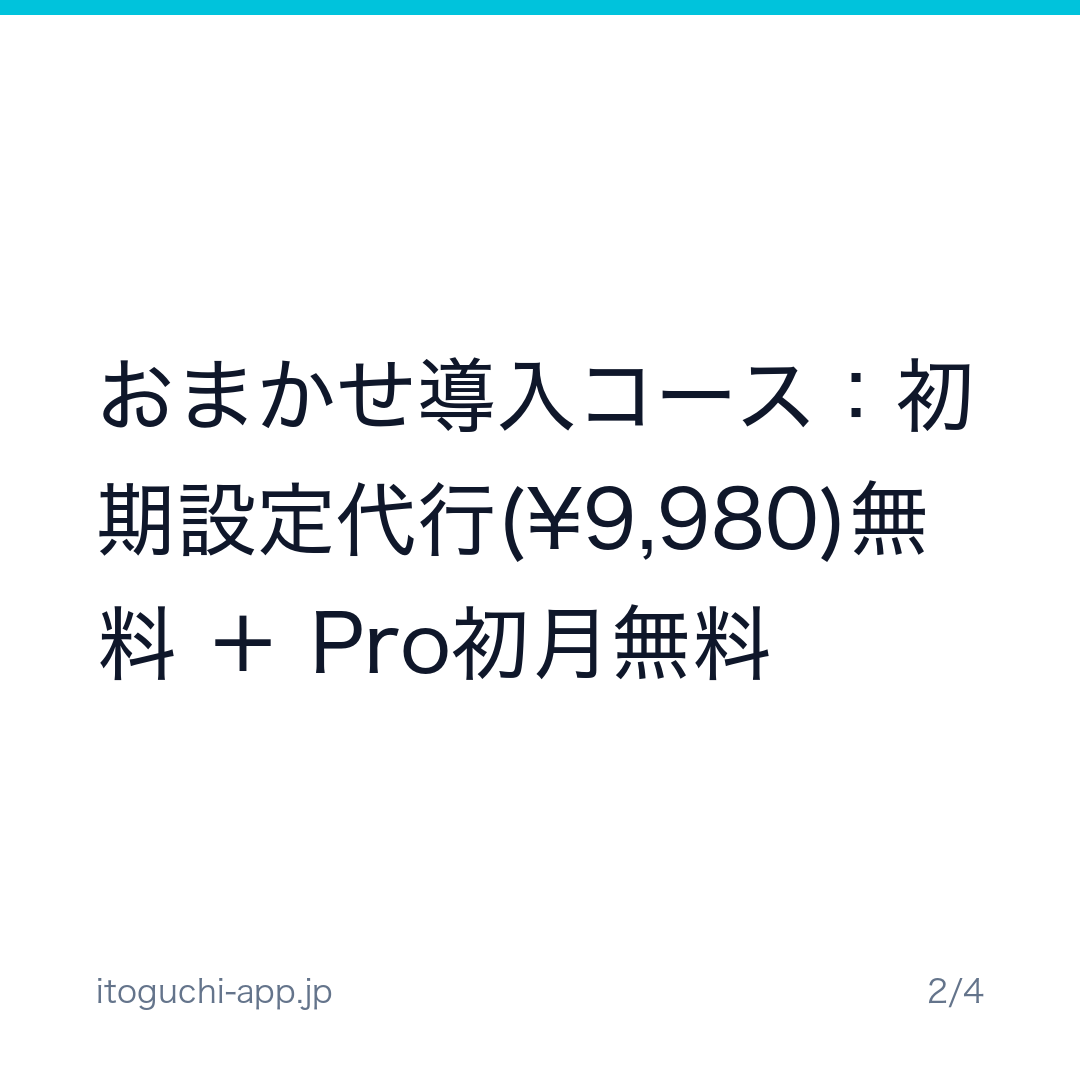
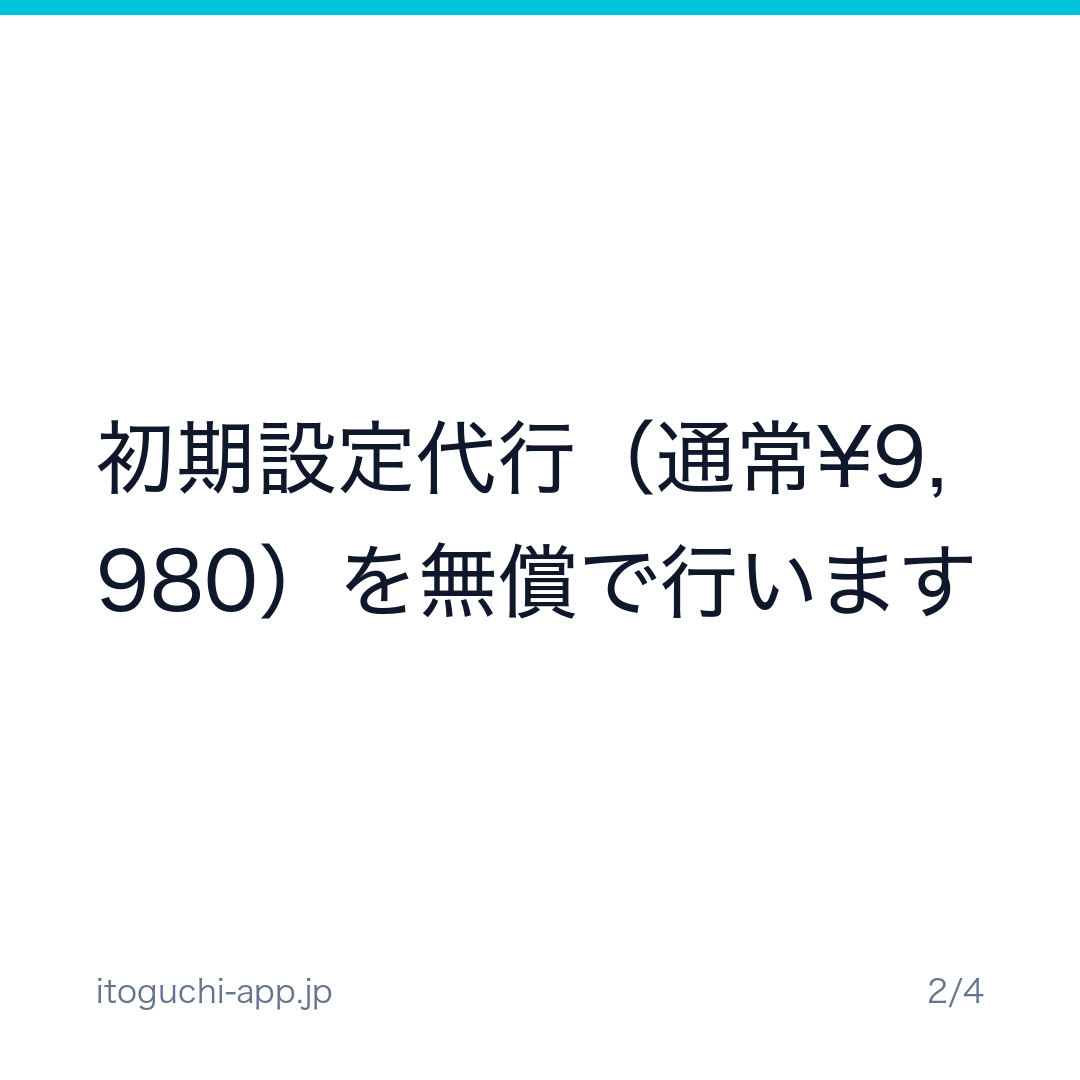
fix(admin): 完了メールの送信失敗が成功として表示されていた問題を修正
「LINE設定を保存して完了にする」は、送信に失敗して警告トーストを出しても
直後に成功トーストで無条件に上書きしており、常に
「顧客に完了メールを送信しました」と表示されていた。
ステータス変更経由の送信は失敗を console にしか出しておらず、
どちらの経路でも未送信に気づく手段がなかった。

- 送信処理を共通化し、成否を必ず呼び出し側へ返す
- 失敗時は理由を含むエラーを表示し、成功表示で上書きしない
- send-setup-service-email が completion_email_sent_at を記録する。
  列は冪等性のために用意されていたが誰も書き込んでいなかった
- 完了済み注文に送信日時を表示。未送信なら再送ボタンを出す

あわせて広告・投稿原稿の特典表記を新仕様（初期設定代行のみ無料）へ更新。

Claude-Session: https://claude.ai/code/session_016n7GkQjoypZohuXexJ8B9X

Changed region(s): [[0.0917, 0.3361, 0.9167, 0.6417]]

diff --git a/frontend/src/pages/AdminDashboard.tsx b/frontend/src/pages/AdminDashboard.tsx
@@ -287,6 +287,43 @@ export default function AdminDashboard() {
     }
   }
 
+  /**
+   * 完了メールを送信する。成功なら null、失敗なら理由の文字列を返す。
+   * 呼び出し側が「送れたことにする」のを防ぐため、成否を必ず返す形にしている。
+   */
+  const sendCompletionEmail = async (orderId: string): Promise<string | null> => {
+    try {
+      const { data, error } = await supabase.functions.invoke('send-setup-service-email', {
+        body: { order_id: orderId, email_type: 'completion' },
+      })
+
+      if (error) {
+        console.error('Failed to send completion email:', error)
+        return error.message || '送信に失敗しました'
+      }
+      if (data && data.success === false) {
+        return data.error || '送信に失敗しました'
+      }
+      console.log('Completion email sent:', data)
+      return null
+    } catch (e) {
+      console.error('Error sending completion email:', e)
+      return e instanceof Error ? e.message : '送信に失敗しました'
+    }
+  }
+
+  const handleResendCompletionEmail = async (orderId: string) => {
+    setSaving(true)
+    const failure = await sendCompletionEmail(orderId)
+    setSaving(false)
+    setToast(
+      failure
+        ? { isVisible: true, message: `再送に失敗しました: ${failure}`, type: 'error' }
+        : { isVisible: true, message: '完了メールを再送しました', type: 'success' },
+    )
+    loadOrders()
+  }
+
   const handleSaveLineSettings = async () => {
     if (!selectedOrder) return
 
@@ -388,27 +425,20 @@ export default function AdminDashboard() {
 
       if (updateError) throw updateError
 
-      // 完了メールを送信
-      try {
-        const { data: emailResponse, error: emailError } = await supabase.functions.invoke('send-setup-service-email', {
-          body: {
-            order_id: selectedOrder.id,
-            email_type: 'completion'
-          }
+      // 完了メールを送信。
+      // 以前はここで失敗トーストを出しても、直後に成功トーストで無条件に
+      // 上書きしていたため、送信に失敗しても「送信しました」と表示されていた。
+      const emailFailure = await sendCompletionEmail(selectedOrder.id)
+
+      if (emailFailure) {
+        setToast({
+          isVisible: true,
+          message: `設定代行を完了しました。ただし完了メールを送信できませんでした: ${emailFailure}`,
+          type: 'error',
         })
-
-        if (emailError) {
-          console.error('Failed to send completion email:', emailError)
-          setToast({ isVisible: true, message: '設定代行サービスを完了しました。ただし、完了メールの送信に失敗しました。', type: 'error' })
-        } else {
-          console.log('Completion email sent successfully:', emailResponse)
-        }
-      } catch (emailError) {
-        console.error('Error sending completion email:', emailError)
-        setToast({ isVisible: true, message: '設定代行サービスを完了しました。ただし、完了メールの送信に失敗しました。', type: 'error' })
+      } else {
+        setToast({ isVisible: true, message: '設定代行サービスを完了しました。顧客に完了メールを送信しました。', type: 'success' })
       }
-
-      setToast({ isVisible: true, message: '設定代行サービスを完了しました。顧客に完了メールを送信しました。', type: 'success' })
       loadOrders()
       setSelectedOrder(null)
     } catch (error: unknown) {
@@ -433,25 +463,18 @@ export default function AdminDashboard() {
 
       if (error) throw error
 
-      // ステータスがcompletedになった場合、完了メールを送信
+      // ステータスがcompletedになった場合、完了メールを送信。
+      // 失敗を console だけに落とすと、顧客に届いていないことに気づけない。
       if (newStatus === 'completed') {
-        try {
-          const { error: emailError } = await supabase.functions.invoke('send-setup-service-email', {
-            body: {
-              order_id: orderId,
-              email_type: 'completion'
-            }
+        const emailFailure = await sendCompletionEmail(orderId)
+        if (emailFailure) {
+          setToast({
+            isVisible: true,
+            message: `ステータスは完了にしました。ただし完了メールを送信できませんでした: ${emailFailure}`,
+            type: 'error',
           })
-
-          if (emailError) {
-            console.error('Failed to send completion email:', emailError)
-            // メール送信エラーは警告のみ（ステータス更新は成功）
-          } else {
-            console.log('Completion email sent successfully')
-          }
-        } catch (emailError) {
-          console.error('Error sending completion email:', emailError)
-          // メール送信エラーは警告のみ（ステータス更新は成功）
+          loadOrders()
+          return
         }
       }
 
@@ -661,6 +684,7 @@ export default function AdminDashboard() {
             onLineSettingsChange={setLineSettings}
             onAdminNotesChange={setAdminNotes}
             onSaveLineSettings={handleSaveLineSettings}
+            onResendCompletionEmail={handleResendCompletionEmail}
             onUpdateStatus={handleUpdateStatus}
             onSearchQueryChange={setSearchQuery}
             onStatusFilterChange={setStatusFilter}

diff --git a/frontend/src/features/admin/components/SetupOrdersTab.tsx b/frontend/src/features/admin/components/SetupOrdersTab.tsx
@@ -28,6 +28,7 @@ export interface SetupOrdersTabProps {
   onLineSettingsChange: (settings: LineSettings) => void
   onAdminNotesChange: (notes: string) => void
   onSaveLineSettings: () => void
+  onResendCompletionEmail: (orderId: string) => void
   onUpdateStatus: (orderId: string, newStatus: string) => void
   onSearchQueryChange: (query: string) => void
   onStatusFilterChange: (filter: string) => void
@@ -70,6 +71,7 @@ export function SetupOrdersTab({
   onLineSettingsChange,
   onAdminNotesChange,
   onSaveLineSettings,
+  onResendCompletionEmail,
   onUpdateStatus,
   onSearchQueryChange,
   onStatusFilterChange,
@@ -255,6 +257,30 @@ export function SetupOrdersTab({
                   placeholder="作業内容や気づいた点をメモ..."
                 />
               </section>
+
+              {/* 完了メールが実際に届いたのかを画面で確認できるようにする。
+                  以前は送信に失敗しても成功と表示され、気づく手段がなかった。 */}
+              {selectedOrder.status === 'completed' && (
+                <section className="pt-4 border-t">
+                  {selectedOrder.completion_email_sent_at ? (
+                    <p className="text-sm text-green-700 bg-green-50 rounded-lg px-3 py-2">
+                      完了メール送信済み:{' '}
+                      {new Date(selectedOrder.completion_email_sent_at).toLocaleString('ja-JP')}
+                    </p>
+                  ) : (
+                    <div className="text-sm text-amber-800 bg-amber-50 rounded-lg px-3 py-2">
+                      <p className="font-bold mb-2">完了メールが未送信です</p>
+                      <button
+                        onClick={() => onResendCompletionEmail(selectedOrder.id)}
+                        disabled={saving}
+                        className="px-3 py-1.5 text-xs font-bold bg-amber-600 text-white rounded-lg hover:bg-amber-700 disabled:opacity-50"
+                      >
+                        完了メールを再送する
+                      </button>
+                    </div>
+                  )}
+                </section>
+              )}
 
               <div className="flex flex-col gap-3 pt-4 border-t">
                 <button

diff --git a/supabase/functions/send-setup-service-email/index.ts b/supabase/functions/send-setup-service-email/index.ts
@@ -240,10 +240,27 @@ Deno.serve(async (req) => {
     
     console.log(`${email_type} email sent to ${email}`)
 
+    // 送信済みを記録する。これがないと「送ったのか」を後から確認できず、
+    // 送信失敗に気づけないまま完了扱いになってしまう。
+    const sentColumn = email_type === 'completion'
+      ? 'completion_email_sent_at'
+      : 'payment_confirmation_email_sent_at'
+
+    const { error: stampError } = await supabase
+      .from('setup_service_orders')
+      .update({ [sentColumn]: new Date().toISOString() })
+      .eq('id', order_id)
+
+    if (stampError) {
+      // 送信自体は成功しているので失敗にはしない。記録だけが落ちた状態。
+      console.error('送信日時の記録に失敗しました:', stampError)
+    }
+
     return new Response(
       JSON.stringify({ 
         success: true,
-        message: 'メールを送信しました'
+        message: 'メールを送信しました',
+        sent_to: email
       }),
       { 
         status: 200,

diff --git a/frontend/src/features/admin/types.ts b/frontend/src/features/admin/types.ts
@@ -12,6 +12,7 @@ export interface SetupOrder {
   assigned_to: string | null
   paid_at: string | null
   completed_at: string | null
+  completion_email_sent_at: string | null
   created_at: string
   profiles?: {
     email: string
